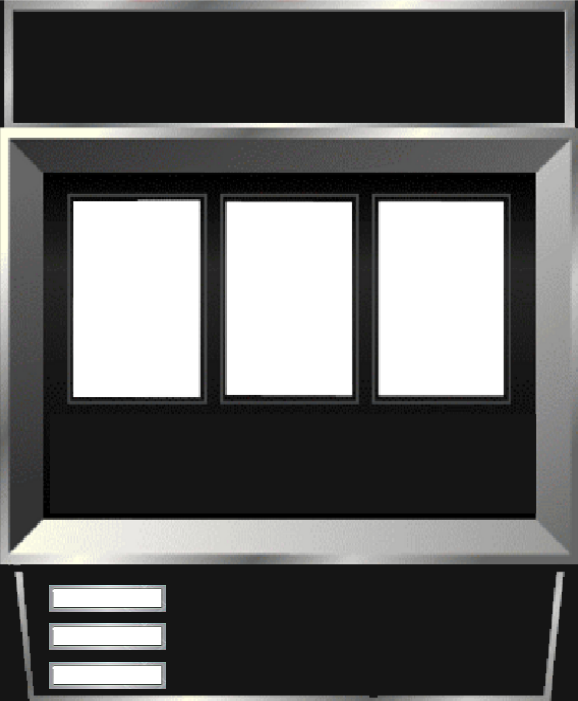
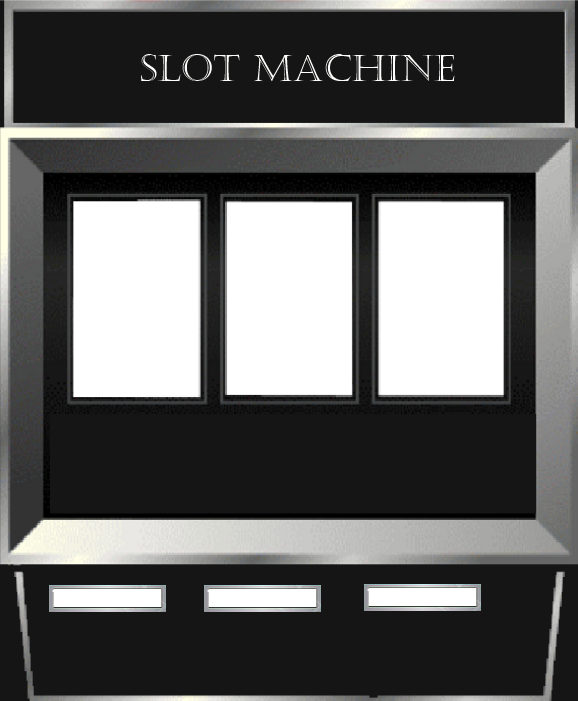
Assets Finalized

diff --git a/slotmachine/Scripts/main.js b/slotmachine/Scripts/main.js
@@ -368,16 +368,16 @@ function createUI() {
     background = new createjs.Bitmap("assets/images/SlotMachine.png");
     game.addChild(background); // Add the background to the game container
     playerMoneyText = new createjs.Text("Money: " + playerMoney.toString(), "Arial", "#000000");
-    playerMoneyText.x = 55;
+    playerMoneyText.x = 57;
     playerMoneyText.y = 593;
     game.addChild(playerMoneyText);
     betAmountText = new createjs.Text("Bet Amount: " + betAmount.toString(), "Arial", "#000000");
-    betAmountText.x = 55;
-    betAmountText.y = 631;
+    betAmountText.x = 213;
+    betAmountText.y = 593;
     game.addChild(betAmountText);
     jackpotAmountText = new createjs.Text("Current Jackpot: " + jackpot.toString(), "Arial", "#000000");
-    jackpotAmountText.x = 55;
-    jackpotAmountText.y = 670;
+    jackpotAmountText.x = 372;
+    jackpotAmountText.y = 593;
     game.addChild(jackpotAmountText);
 
     for (var index = 0; index < NUM_REELS; index++) {
